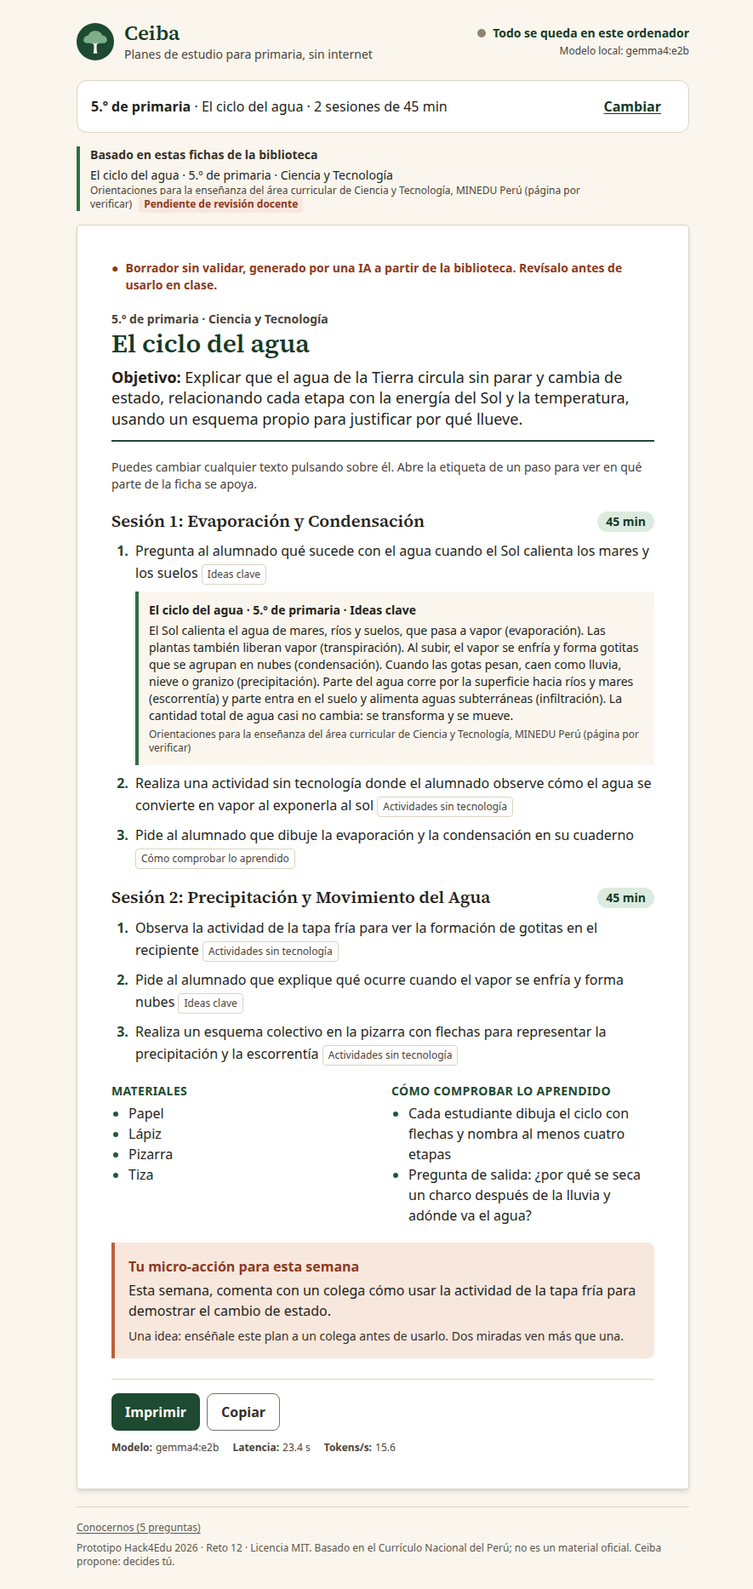
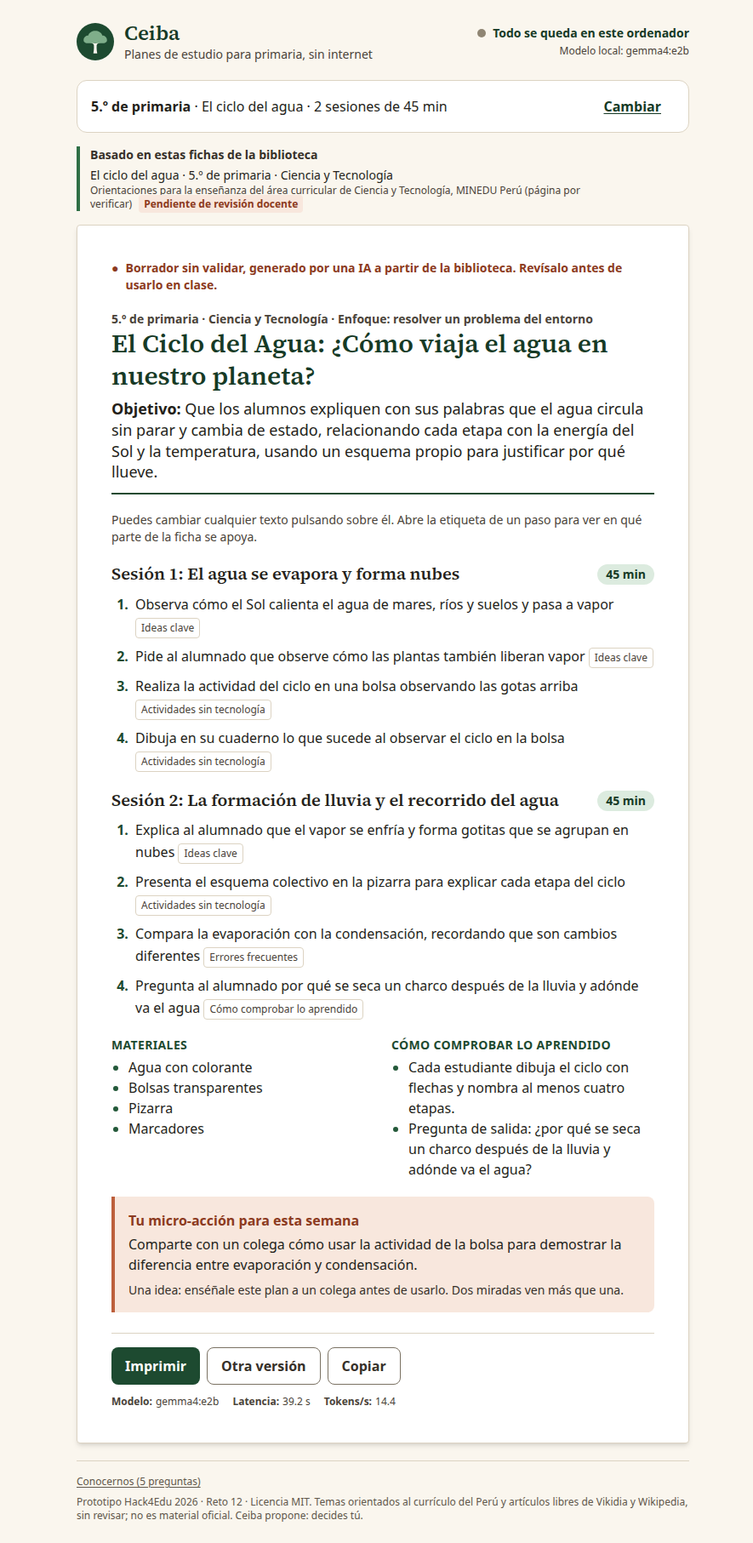
[builder] 20 planes grabados con temas variados, opciones sin duplicados, modo demo solo con temas grabados; docs y licencia CC BY-SA de la biblioteca (refs #9)

diff --git a/app/src/plan/Plan.tsx b/app/src/plan/Plan.tsx
@@ -79,6 +79,9 @@ export function Plan({ model }: { model: string }) {
   const planRef = useRef<HTMLDivElement>(null)
   const pedidoRef = useRef<HTMLTextAreaElement>(null)
 
+  // En modo demo solo hay respuesta grabada para algunas fichas: solo se ofrecen esas.
+  const disponibles = useMemo(() => (config.demoMode ? biblioteca.filter((f) => temasGrabados.has(f.id)) : biblioteca), [])
+
   useEffect(() => () => abortRef.current?.abort(), [])
   useEffect(() => {
     if (gen.status !== 'loading') return
@@ -140,7 +143,7 @@ export function Plan({ model }: { model: string }) {
       return
     }
     setFaltaGrado(false)
-    const b = buscar(biblioteca, g, t)
+    const b = buscar(disponibles, g, t)
     setBusqueda(b)
     if (b.fichas.length) void generar(b.fichas, g, ses, min)
   }
@@ -180,8 +183,6 @@ export function Plan({ model }: { model: string }) {
   const cargando = gen.status === 'loading'
   const fichasEnUso = busqueda?.fichas ?? []
   const plegado = gen.status !== 'idle' && fichasEnUso.length > 0 && !cambiando
-  // En modo demo solo hay respuesta grabada para algunas fichas: solo se ofrecen esas.
-  const disponibles = useMemo(() => (config.demoMode ? biblioteca.filter((f) => temasGrabados.has(f.id)) : biblioteca), [])
   const [tanda, setTanda] = useState(0)
   const totalTemas = useMemo(() => new Set(disponibles.map((f) => f.tema)).size, [disponibles])
   const chips = useMemo(
@@ -459,12 +460,12 @@ function SinMaterial({
   return (
     <div data-sin-material className="rounded-xl border border-stone-300 bg-white p-5">
       <p className="font-serif text-lg font-semibold text-stone-900">{es.plan.sinMaterial(grado)}</p>
-      <p className="mt-1 text-stone-800">{es.plan.sinMaterialAyuda}</p>
+      <p className="mt-1 text-stone-800">{config.demoMode ? es.plan.sinMaterialDemo : es.plan.sinMaterialAyuda}</p>
       {busqueda.otrosGrados.length > 0 && (
         <div className="mt-3" data-otros-grados>
           <p className="text-sm font-semibold text-stone-800">{es.plan.otrosGrados(grado)}</p>
           <div className="mt-2 flex flex-wrap gap-2">
-            {busqueda.otrosGrados.map((f) => (
+            {busqueda.otrosGrados.slice(0, 6).map((f) => (
               <button key={f.id} type="button" className={chip} onClick={() => onOtroGrado(f)}>
                 {es.plan.usarFichaDe(f.grado, f.tema)}
               </button>
@@ -476,7 +477,7 @@ function SinMaterial({
         <div className="mt-3" data-temas-grado>
           <p className="text-sm font-semibold text-stone-800">{es.plan.temasDisponibles(grado)}</p>
           <div className="mt-2 flex flex-wrap gap-2">
-            {busqueda.temasDelGrado.map((t) => (
+            {busqueda.temasDelGrado.slice(0, 10).map((t) => (
               <button key={t} type="button" className={chip} onClick={() => onTema(t)}>
                 {t}
               </button>

diff --git a/ai/library/search.ts b/ai/library/search.ts
@@ -252,7 +252,7 @@ export interface Busqueda {
 
 export function buscar(biblioteca: Ficha[], grado: number, tema: string): Busqueda {
   const consulta = tokens(tema)
-  const temasDelGrado = biblioteca.filter((f) => f.grado === grado).map((f) => f.tema)
+  const temasDelGrado = [...new Set(biblioteca.filter((f) => f.grado === grado).map((f) => f.tema))]
   if (!consulta.length) return { fichas: [], otrosGrados: [], temasDelGrado }
   const candidatas = biblioteca.filter((f) => cubre(f, consulta))
   const puntos = puntuar(candidatas, consulta)
@@ -266,7 +266,12 @@ export function buscar(biblioteca: Ficha[], grado: number, tema: string): Busque
   const fichas = curadas.length ? curadas.slice(0, 2) : delGrado.slice(0, 1).map((f) => recortarFicha(f, tema))
   return {
     fichas,
-    otrosGrados: candidatas.filter((f) => f.grado !== grado).sort((a, b) => a.grado - b.grado).map((f) => recortarFicha(f, tema)),
+    otrosGrados: candidatas
+      .filter((f) => f.grado !== grado)
+      // Una opción por grado y tema; la curada, si existe.
+      .sort((a, b) => a.grado - b.grado || Number(b.tipo === 'curada') - Number(a.tipo === 'curada'))
+      .filter((f, i, l) => l.findIndex((x) => x.grado === f.grado && (x.tema === f.tema || x.tipo !== f.tipo)) === i)
+      .map((f) => recortarFicha(f, tema)),
     temasDelGrado,
   }
 }

diff --git a/app/src/copy/es.ts b/app/src/copy/es.ts
@@ -188,6 +188,7 @@ export const es = {
     sinDispositivos: 'El alumnado no tiene dispositivos ni internet',
     faltaGrado: '¿Para qué grado es? Elígelo arriba y vuelve a pulsar «Preparar plan».',
     sinMaterial: (g: number) => `No tengo material sobre este tema para ${g}.º de primaria.`,
+    sinMaterialDemo: 'En el modo demo solo hay planes grabados para algunos temas. Con el modelo real hay muchos más.',
     sinMaterialAyuda: 'Prefiero decírtelo antes que inventarme un plan. No se ha generado nada.',
     otrosGrados: (g: number) => `Sí lo tengo en otro grado. Puedes usarlo como base para ${g}.º, sabiendo que no está pensado para ese grado:`,
     usarFichaDe: (g: number, tema: string) => `Usar la ficha de ${g}.º: ${tema}`,

diff --git a/README.md b/README.md
@@ -2,7 +2,7 @@
 
 **Hack4Edu 2026 · Reto 12 ★ «El entrenador invisible del docente».** Prototipo desarrollado del 3 al 5 de noviembre de 2026.
 
-Un docente de primaria escribe «plan de estudio para 5.º sobre el ciclo del agua» y recibe un borrador paso a paso, ajustado a ese grado y hecho a partir de una biblioteca curricular local. Cada paso muestra en qué parte de la ficha se apoya. No devuelve una lista de libros: devuelve un plan que se puede usar y cambiar. Funciona sin internet, en un portátil corriente, y lo que escribe el docente no sale de su ordenador.
+Un docente de primaria escribe «plan de estudio para 5.º sobre el ciclo del agua» y recibe un borrador paso a paso, ajustado a ese grado y hecho a partir de una biblioteca local con 170 temas de primaria. Cada paso muestra en qué parte de la ficha se apoya. No devuelve una lista de libros: devuelve un plan que se puede usar y cambiar. Funciona sin internet, en un portátil corriente, y lo que escribe el docente no sale de su ordenador.
 
 ## Por qué
 
@@ -39,7 +39,9 @@ Pedido del docente
  → 4. comprobar (sin IA): esquema, minutos y fuentes; un reintento → borrador editable
 ```
 
-- **Biblioteca:** ficheros Markdown en `library/fichas/`, sin base de datos. Con pocas fichas, filtrar por grado y buscar por tema basta, y evita cargar un segundo modelo en poca RAM. Añadir contenido es añadir un fichero: consulta `library/README.md`.
+- **Biblioteca:** sin base de datos. Un mapa de temas por grado (`library/temas.json`), artículos de Vikidia y Wikipedia descargados una sola vez (`library/articulos.json`, menos de 1 MB) y fichas escritas a mano (`library/fichas/`), que se usan primero si existen. Filtrar por grado y buscar por tema basta, y evita cargar un segundo modelo en poca RAM. Para ampliarla: `library/README.md`.
+- **Variedad:** cada plan sigue un enfoque (jugar, contar una historia, debatir…), elegido o al azar, y «Otra versión» propone uno distinto.
+- **Sin fuente, se dice:** si un artículo no trae actividades, el modelo puede proponerlas, y se marcan como «Idea de Ceiba, sin fuente».
 - **Si no hay material, lo dice** y no genera nada. Si el tema solo existe en otro grado, te deja elegir.
 - **Privacidad:** al modelo le llegan los campos y las fichas, nunca el texto libre. Así los nombres de alumnos no llegan al modelo.
 - **Código:** `ai/` (modelo, esquemas, biblioteca), `app/src/plan/` (pantalla principal), `fixtures/` (modo demo).
@@ -53,8 +55,8 @@ Gemma 4 E2B (`gemma4:e2b`) de Google DeepMind, licencia [Apache 2.0](https://www
 | | |
 |---|---|
 | **Real** | Búsqueda en la biblioteca, generación con el modelo local, validación, funcionamiento sin red. Mediciones: `docs/review/resultados-2026-11-05.md` |
-| **Grabado** | En `npm run demo`, el plan es una respuesta real del modelo guardada en `fixtures/`, y la interfaz lo indica |
-| **Sin revisar** | Las 8 fichas son un borrador de demostración basado en el Currículo Nacional del Perú. Sus competencias, documentos y páginas aún deben contrastarse con el MINEDU. No son material oficial y la interfaz las marca como pendientes |
+| **Grabado** | En `npm run demo`, el plan es una respuesta real del modelo guardada en `fixtures/`, solo para los temas grabados, y la interfaz lo indica |
+| **Sin revisar** | Todo el contenido. El mapa de temas y las 8 fichas son un borrador orientado al currículo del Perú, sin contrastar con el MINEDU. Los artículos vienen de enciclopedias abiertas, editables por cualquiera, y pueden tener errores. La interfaz lo marca como pendiente de revisión |
 | **Sin validar** | No hemos demostrado que Ceiba mejore la enseñanza ni el aprendizaje. Citar una ficha no garantiza que el paso sea fiel a ella: por eso el docente puede abrir la fuente y cada plan es un borrador. Los cortes de nivel del perfil tampoco están validados |
 
 ## Comprobar
@@ -66,4 +68,4 @@ npm run smoke:plan -- http://localhost:5173/    # con la app en marcha y Chrome 
 
 ## Licencias
 
-Código: [MIT](LICENSE). Fuente Source Serif 4, incluida en la app: [SIL OFL 1.1](https://openfontlicense.org). Documentación y fichas: [CC BY-NC-SA 3.0](https://creativecommons.org/licenses/by-nc-sa/3.0/deed.es_ES). Sin datos reales de alumnos ni de docentes.
+Código: [MIT](LICENSE). Fuente Source Serif 4, incluida en la app: [SIL OFL 1.1](https://openfontlicense.org). Documentación: [CC BY-NC-SA 3.0](https://creativecommons.org/licenses/by-nc-sa/3.0/deed.es_ES). Biblioteca: CC BY-SA, con el detalle en `library/README.md` y los créditos de cada artículo en `library/ATRIBUCIONES.md`. Sin datos reales de alumnos ni de docentes.

diff --git a/docs/pitch/pitch-v1.md b/docs/pitch/pitch-v1.md
@@ -15,7 +15,7 @@ Acompañar a un docente funciona, pero cuando estos programas crecen pierden bue
 
 ### 2. Solución (≈ 20 s)
 
-Esto es Ceiba. Vive en el ordenador del docente, con una biblioteca basada en el currículo de su país y un modelo de IA abierto. No le da una lista de libros: le prepara un plan que puede usar y cambiar.
+Esto es Ceiba. Vive en el ordenador del docente, con una biblioteca de temas de primaria y un modelo de IA abierto. No le da una lista de libros: le prepara un plan que puede usar y cambiar.
 
 ### 3. Demo (≈ 80 s)
 
@@ -31,15 +31,15 @@ Cada paso dice en qué se apoya. Lo abrimos y aquí está el texto de la ficha.
 
 Ella cambia un paso con un clic y lo imprime. Es un borrador: la última palabra es suya. [DECIDE EL DOCENTE.]
 
-Ahora, el mismo tema para tercero. El plan cambia, porque cambia lo que ese grado debe lograr.
+Ahora, el mismo tema para tercero. El plan cambia, porque cambia lo que ese grado debe lograr. Y si no le convence, pide otra versión con otro enfoque: jugar, contar una historia, debatir.
 
-¿Y si pide algo que la biblioteca no tiene, como la fotosíntesis? Ceiba lo dice y no se inventa nada. Le enseña lo que sí tiene.
+¿Y si pide algo que la biblioteca no tiene, como las criptomonedas? Ceiba lo dice y no se inventa nada. Le enseña lo que sí tiene.
 
 Termina con un paso pequeño para su semana, porque el objetivo no es solo este plan, sino acompañar a quien enseña.
 
 ### 4. Cómo funciona (≈ 20 s)
 
-Gemma 4, un modelo abierto, en un portátil de ocho gigas sin tarjeta gráfica. La biblioteca son ficheros de texto: un ministerio o una ONG puede ampliarla sin servidores. Y lo que escribe la docente no llega ni al modelo, así que los nombres de sus alumnos no salen de ahí. [REAL. Son 7,5 GB medidos; decir «ocho» es redondear la capacidad del equipo.]
+Gemma 4, un modelo abierto, en un portátil de ocho gigas sin tarjeta gráfica. La biblioteca son ficheros: ciento setenta temas con artículos abiertos de Vikidia y Wikipedia, descargados una vez. Un ministerio o una ONG podría añadir los suyos sin servidores. Y lo que escribe la docente no llega ni al modelo, así que los nombres de sus alumnos no salen de ahí. [REAL. Son 7,5 GB medidos; decir «ocho» es redondear la capacidad del equipo.]
 
 ### 5. Impacto (≈ 15 s)
 
@@ -47,16 +47,17 @@ Una red como ProFuturo podría llevarlo a los equipos que ya están en las escue
 
 ### 6. Límites honestos (≈ 15 s)
 
-Seamos claros. Son ocho fichas de demostración, aún pendientes de revisión con el currículo oficial, y no hemos medido su efecto en el aprendizaje. Lo probamos con [CONFIRMAR: número] docentes. [Si no hay pruebas, se quita la frase.]
+Seamos claros. El contenido aún no está revisado: viene de enciclopedias abiertas y de un mapa de temas que falta contrastar con el currículo oficial. Y no hemos medido su efecto en el aprendizaje. Lo probamos con [CONFIRMAR: número] docentes. [Si no hay pruebas, se quita la frase.]
 
 Ceiba propone. Decide el docente.
 
 ## Preguntas del jurado: respuestas breves
 
-- **¿Por qué no un RAG con vectores?** Con pocas fichas, el filtro por grado y la búsqueda por tema aciertan en las pruebas (`npm run library:check`), y un segundo modelo competiría por la poca RAM. Con muchas más fichas se reabriría la decisión.
+- **¿Por qué no un RAG con vectores?** Con unos cientos de temas, el filtro por grado y la búsqueda por tema aciertan en las pruebas (`npm run library:check`), y un segundo modelo competiría por la poca RAM. Con muchos más se reabriría la decisión.
+- **¿Es fiable el contenido?** Todavía no lo garantizamos. Es texto abierto, con su versión y su fuente guardadas, y la interfaz lo marca como sin revisar. El siguiente paso es revisarlo con docentes.
 - **¿Cómo evitáis las invenciones?** El modelo solo recibe las fichas, cada paso debe citar una, y sin ficha no se genera nada. Citar no garantiza fidelidad: por eso el docente puede abrir la fuente y el plan es un borrador. Resultados de la lectura de planes reales: `docs/review/resultados-2026-11-05.md`.
 - **¿Qué datos se guardan?** Ninguno en un servidor. El nivel del perfil se queda en la pestaña y se borra al cerrarla.
-- **¿Quién mantiene las fichas?** [SIN VALIDAR] La idea es que lo haga la organización que despliega Ceiba; no lo hemos probado.
+- **¿Quién mantiene la biblioteca?** [SIN VALIDAR] La idea es que lo haga la organización que despliega Ceiba; no lo hemos probado.
 
 ## Qué no decimos
 

diff --git a/docs/STATE.md b/docs/STATE.md
@@ -8,7 +8,7 @@
 - Plan vigente: `docs/PLAN.md` (aprobado por un humano el 2026-11-05). Manda sobre el alcance anterior de este fichero y de los issues.
 - Último update: 2026-11-05 por builder.
 - Máquina de demo: portátil de 7,5 GB de RAM, 8 núcleos, sin GPU. Ollama 0.40.14 **en Docker** en `127.0.0.1:11435` (`.env`: `LLM_BASE_URL=http://localhost:11435/v1`), con `gemma4:e2b`. El Ollama nativo 0.12.11 de esta máquina (puerto 11434) no puede ejecutar Gemma 4 y no se usa.
-- Qué funciona hoy: pantalla de plan de estudio con biblioteca local, modelo real (18–41 s por plan) y modo demo. Sin probar aún: modo avión real. Resultados: `docs/review/resultados-2026-11-05.md`.
+- Qué funciona hoy: pantalla de plan de estudio con biblioteca local, modelo real (18–47 s por plan) y modo demo. Sin probar aún: modo avión real. Resultados: `docs/review/resultados-2026-11-05.md`.
 - Falta, y lo hace una persona: contrastar las fichas con los documentos oficiales del MINEDU, confirmar con la sede el reto y la modalidad, probar con docentes, y grabar y enviar el vídeo y la presentación.
 
 ## Producto (alcance vigente)
@@ -18,14 +18,16 @@
 2. **Perfil rápido** (opcional, por enlace): 5 preguntas → punto de partida orientativo. Solo ajusta la micro-acción.
 Siempre: si no hay material lo dice y no genera nada; no se envía al modelo lo que escribe el docente; anima a consultar con un colega.
 
-**Fuera de alcance:** flujo de reflexión (#12), chat libre, selector de modelos, embeddings, base de datos vectorial, SQLite, ingesta de PDF, memoria entre sesiones, voz, LMS, login, PWA.
+**Fuera de alcance:** flujo de reflexión (#12), chat libre, selector de modelos, embeddings, base de datos vectorial, SQLite, ingesta de PDF, consultas en vivo a internet, memoria entre sesiones, voz, LMS, login, PWA.
 
 ## Decisiones tomadas
 - **Biblioteca + plan de estudio como producto central** (2026-11-05, humano). Revierte «RAG de currículos fuera de alcance». Reto 12 ★, currículo CNEB del Perú, demo en el portátil de 7,5 GB.
-- **La biblioteca son ficheros Markdown** en `library/fichas/`, sin base de datos: filtro estricto por grado y búsqueda BM25 sobre tema y alias. Sin modelo de embeddings, porque competiría por la poca RAM.
+- **La biblioteca no usa base de datos**: filtro estricto por grado y búsqueda BM25 sobre tema y alias. Sin modelo de embeddings, porque competiría por la poca RAM.
+- **Más contenido antes que contenido revisado** (2026-11-05, humano): 170 temas con artículos de Vikidia y Wikipedia descargados una vez, además de las 8 fichas curadas, que se usan primero. La revisión de contenido se deja para después de esta fase. Todo sigue marcado como sin revisar.
+- **Variedad de respuestas** (2026-11-05, humano): enfoque elegido o al azar, y «Otra versión».
 - **Lo que escribe el docente no llega al modelo**: solo campos y fichas.
 - Presupuesto API: 0 €. **Un solo modelo: Gemma 4 `gemma4:e2b`** (2026-11-04, Ariel; Apache-2.0).
-- Licencias: MIT para el código; CC BY-NC-SA 3.0 para documentación y fichas.
+- Licencias: MIT para el código; CC BY-NC-SA 3.0 para la documentación; CC BY-SA para `library/`, por los artículos.
 - Repo: `alcacere/hack4edu2026`, público. Formato final (#25): vídeo de 3 min + presentación de 5 min + enlace a GitHub.
 - Memoria compartida: GitHub Issues + este fichero.
 
@@ -45,5 +47,5 @@ Los comandos están en `README.md`. El histórico de mediciones de máquinas ant
 
 ## Preguntas abiertas para humanos
 - #17 y #21 — Tareas de los humanos (pruebas con docentes, grabar y enviar la entrega).
-- Contrastar cada ficha con el documento oficial del MINEDU y poner `revisado: true`. Hoy ninguna está revisada.
+- Después de esta fase: revisar temas, fichas y artículos con el documento oficial del MINEDU. Hoy nada está revisado.
 - Confirmar con la sede el reto (12), la modalidad (innovadora) y la hora límite.

diff --git a/docs/review/resultados-2026-11-05.md b/docs/review/resultados-2026-11-05.md
@@ -1,17 +1,17 @@
 # Resultados de la pasada del 2026-11-05
 
-Máquina: portátil de 7,5 GB de RAM, 8 núcleos, sin GPU. Ollama 0.40.14 en Docker, `gemma4:e2b`, contexto de 4.096 tokens. Biblioteca: 8 fichas, ninguna revisada. Comprobado por el agente que construyó la app, **no por un revisor independiente**.
+Máquina: portátil de 7,5 GB de RAM, 8 núcleos, sin GPU. Ollama 0.40.14 en Docker, `gemma4:e2b`, contexto de 4.096 tokens. Biblioteca: 8 fichas curadas y 170 temas con artículos de Vikidia y Wikipedia, nada revisado. Comprobado por el agente que construyó la app, **no por un revisor independiente**.
 
 ## Mediciones (modelo real)
 
 | Qué | Resultado |
 |---|---|
-| Plan de 2 sesiones en la interfaz, modelo cargado | 23,4–40,5 s |
-| Plan de 1 sesión en la interfaz, modelo cargado | 18,0–25,7 s |
-| Grabación por script, 24 planes de 1 o 2 sesiones | 19,2–34,0 s |
+| Plan de 2 sesiones en la interfaz, modelo cargado | 23,4–42,0 s |
+| Plan de 1 sesión en la interfaz, modelo cargado | 18,0–31,4 s |
+| Grabación por script, 44 planes de 1 o 2 sesiones | 19,1–46,7 s |
 | Primer plan tras reiniciar el contenedor | 41,1 s. Es un mínimo: el sistema aún tenía el modelo en caché de disco; tras encender el equipo puede tardar más |
 | Velocidad en la interfaz | 7,4–17,8 tok/s (medida de punta a punta, incluye la carga si la hay) |
-| Salida válida | 34 de 34 planes a la primera, con `json_schema` (3 de la prueba inicial, 24 de la grabación, 7 en la interfaz, según las métricas de cada uno) |
+| Salida válida | 47 de 47 planes por script a la primera, con `json_schema`. En la interfaz, ningún fallo y ningún reintento en las métricas leídas |
 | Memoria del contenedor | Pico de 5,1 GB. El sistema usó además 1,5 GB de swap, con Chrome y Vite abiertos |
 
 ## Comprobaciones
@@ -33,6 +33,10 @@ Máquina: portátil de 7,5 GB de RAM, 8 núcleos, sin GPU. Ollama 0.40.14 en Doc
 | Indicador de conexión | ✅ | Cambia al cortar la red del navegador (emulado) |
 | `typecheck`, `build`, `library:check` | ✅ | 17 casos de búsqueda |
 
+| Temas descargados | ✅ | Fotosíntesis, volcanes (pedido en inglés), incas y multiplicación con el modelo real; las actividades propias salen marcadas |
+| «Otra versión» | ✅ | Otro enfoque y otros pasos, probado en fotosíntesis y ciclo del agua |
+| Prioridad de lo curado | ✅ | El ciclo del agua de 5.º usa la ficha curada, no el artículo |
+
 ## Sin comprobar
 
 - **Modo avión real**, con el Wi-Fi apagado, ni con el modelo ni en demo. Hay que hacerlo antes de grabar.
@@ -43,7 +47,17 @@ Máquina: portátil de 7,5 GB de RAM, 8 núcleos, sin GPU. Ollama 0.40.14 en Doc
 - Pruebas con docentes: no se han hecho.
 - Contenido de las fichas contra el MINEDU: ninguna revisada; la `url` de varias apunta al repositorio general.
 
-## Calidad: primera lectura de los 8 planes grabados
+## Calidad de los planes con artículos
+
+Por decisión del equipo, en esta fase importa la cantidad y la variedad, y la calidad se revisa después. Lo que ya se ve en la primera lectura:
+
+- **Contenido sin revisar.** Los artículos pueden tener errores. El de Vikidia sobre cadenas alimentarias dice que las plantas están «al final de la cadena», lo que parece invertido.
+- **A veces demasiado difícil para el grado.** Un plan de fotosíntesis para 5.º pedía diferenciar reacciones «biofísicas y bioquímicas».
+- **El enfoque se nota poco** en algunos planes: uno con enfoque «jugar» propuso sobre todo una clasificación.
+- **Cobertura parcial:** suele quedarse en parte del tema.
+- **El mapa de temas por grado** es propio y no se ha contrastado con el currículo oficial.
+
+## Calidad: primera lectura de los 8 planes con fichas curadas
 
 Son usables como borrador, pero el modelo tiene límites visibles:
 

diff --git a/library/README.md b/library/README.md
@@ -1,8 +1,15 @@
 # Biblioteca de Ceiba
 
-Cada fichero de `fichas/` es una **ficha**: un resumen listo para preparar clase sobre un tema y un grado, no un libro ni un PDF. Ceiba busca en estas fichas y redacta el plan solo con su contenido.
+Dos tipos de contenido, ambos locales: la app no consulta internet.
 
-## Añadir una ficha
+- **Temas descargados:** `temas.json` dice qué temas tocan en cada grado y `articulos.json` guarda el texto de artículos de Vikidia y Wikipedia, con su revisión y licencia. Se generan con `npm run library:build`, una sola vez; lo ya descargado no se vuelve a pedir. Créditos: `ATRIBUCIONES.md`.
+- **Fichas curadas:** los ficheros de `fichas/`, escritos para enseñar, con actividades y errores frecuentes. Si hay una para el tema y el grado, se usa antes que el artículo.
+
+## Añadir un tema descargado
+
+Añade una entrada a `temas.json` (`area`, `tema`, `grados`, `articulo` y `alias`), ejecuta `npm run library:build` y comprueba con `npm run library:check`.
+
+## Añadir una ficha curada
 
 1. Copia una ficha parecida en `fichas/<área>/<grado>-<tema>.md`.
 2. Rellena la cabecera:
@@ -20,6 +27,8 @@ Cada ficha debe ocupar unos 1.500–2.000 caracteres: el modelo la recibe entera
 
 ## Estado del contenido
 
-Las fichas son un **borrador de demostración**, escrito durante el hackathon (noviembre de 2026) y basado en el Currículo Nacional de la Educación Básica del Perú. **Ninguna está revisada todavía**: las competencias, los documentos y las páginas citados deben contrastarse con las publicaciones oficiales del MINEDU. No son material oficial del MINEDU.
+**Nada está revisado todavía.** El mapa de temas por grado y las fichas curadas son un borrador de demostración escrito durante el hackathon (noviembre de 2026), orientado al Currículo Nacional del Perú pero sin contrastar con el documento oficial del MINEDU. Vikidia y Wikipedia son obras abiertas que cualquiera puede editar y pueden contener errores. Nada de esto es material oficial.
 
-Licencia del contenido de esta carpeta: [CC BY-NC-SA 3.0](https://creativecommons.org/licenses/by-nc-sa/3.0/deed.es_ES).
+## Licencia
+
+Todo el contenido de esta carpeta se distribuye bajo [CC BY-SA 4.0](https://creativecommons.org/licenses/by-sa/4.0/deed.es), salvo los artículos de Vikidia, que conservan [CC BY-SA 3.0](https://creativecommons.org/licenses/by-sa/3.0/deed.es) como su original. Los artículos están recortados y troceados respecto al original.

diff --git a/docs/review/escenarios.md b/docs/review/escenarios.md
@@ -13,6 +13,7 @@
 | L3 | Plan | Sin material y otro grado | B3, B4 |
 | L4 | Plan | Entradas raras y sin grado | C1, F2, F4 |
 | L5 | Plan | Fidelidad a las fichas (lectura humana) | B6, G5 |
+| L6 | Plan | Temas descargados y «Otra versión» | B7, B8 |
 | E1, E2 | Perfil (opcional) | Nivel bajo y alto | P1–P7, F2 |
 | E7 | Plan | **Guardarraíl**: datos de alumnos | G1, G2, G2b |
 | E9 | Plan | **Modelo caído** | F1 |
@@ -29,9 +30,9 @@ Pedir el ciclo del agua para 3.º y para 5.º, con 1 sesión cada uno.
 - **Esperado:** fichas distintas. El plan de 5.º trata condensación o precipitación con esos nombres; el de 3.º usa un lenguaje más sencillo. **Falla si** los dos planes son prácticamente iguales.
 
 ## L3 — Sin material y otro grado
-1. «Plan para 5.º sobre la fotosíntesis»: dice que no tiene material, 0 peticiones a `/llm`, ofrece los temas de 5.º.
+1. «Plan para 5.º sobre las criptomonedas»: dice que no tiene material, 0 peticiones a `/llm`, ofrece temas de 5.º.
 2. «Plan para 5.º sobre el ciclo de las rocas»: igual; no vale devolver el ciclo del agua.
-3. «Plan para 4.º sobre el ciclo del agua»: ofrece las fichas de 3.º y 5.º sin usarlas. Al elegir una, queda indicado junto a la ficha.
+3. «Plan para 1.º sobre el ciclo del agua»: ofrece otros grados sin usarlos. Al elegir uno, queda indicado junto a la ficha.
 
 ## L4 — Entradas raras
 1. Pedido vacío: botón deshabilitado.
@@ -39,6 +40,10 @@ Pedir el ciclo del agua para 3.º y para 5.º, con 1 sesión cada uno.
 3. «Plan sobre el ciclo del agua» sin grado: lo pide, 0 peticiones; al elegirlo, sigue.
 4. Texto de 2.000 caracteres: la interfaz no se rompe.
 5. Salida inválida (`npm run mock-llm`): exactamente 2 peticiones y error amable.
+
+## L6 — Temas descargados y variedad
+«Plan para 5.º sobre la fotosíntesis», y después «Otra versión».
+- **Esperado:** plan basado en el artículo, con su fuente y licencia a la vista; actividades propias marcadas como «Idea de Ceiba, sin fuente»; la segunda versión tiene otro enfoque y otros pasos.
 
 ## L5 — Fidelidad a las fichas
 Una persona lee 5 planes reales, 2 ejecuciones de cada uno, con la ficha al lado. Anota cada hecho que no esté en la ficha, cada cita que no respalde su paso y cada paso que no se pueda hacer en un aula sin dispositivos. Los fallos se publican en los resultados.

diff --git a/docs/review/criterios.md b/docs/review/criterios.md
@@ -72,9 +72,11 @@ Si el contenedor `ollama` no existe o no tiene `gemma4:e2b`, el punto 8 queda **
 | C7 | Con «sin dispositivos» marcado, el plan no pide dispositivos ni conexión al alumnado. | Leer el plan. | L1 |
 | B1 | Cada paso cita un fragmento de las fichas entregadas. Abrir la cita muestra ese texto y su fuente. | `validatePlan` rechaza otras etiquetas; pulsar una cita. | L1 |
 | B2 | El mismo tema en 3.º y 5.º usa fichas distintas y el plan cambia de forma visible. Solo REAL. | Comparar los dos planes. | L2 |
-| B3 | Sin ficha para el tema: no hay plan, hay 0 peticiones a `/llm` y se ofrecen los temas de ese grado. | `smoke:plan`: `llmCalls` = 0. | L3 |
+| B3 | Sin ficha ni artículo para el tema: no hay plan, hay 0 peticiones a `/llm` y se ofrecen los temas de ese grado. | `smoke:plan`: `llmCalls` = 0. | L3 |
 | B4 | Si el tema solo existe en otro grado, lo dice y no lo usa salvo que el docente lo elija; en ese caso queda indicado junto a la ficha. | `smoke:plan`; pulsar «Usar la ficha de…». | L3 |
-| B5 | Toda ficha no revisada lleva la marca «Pendiente de revisión docente». Ninguna pantalla dice «alineado» ni «certificado». | Inspección; `grep` en `app/`. | L1 |
+| B5 | Toda ficha o artículo no revisado lleva la marca «Pendiente de revisión docente». Ninguna pantalla dice «alineado» ni «certificado». | Inspección; `grep` en `app/`. | L1 |
+| B7 | Toda actividad sin fragmento de origen se marca «Idea de Ceiba, sin fuente». | Inspección. | L6 |
+| B8 | «Otra versión» cambia el enfoque y el contenido del plan. Solo REAL. | Comparar las dos versiones. | L6 |
 | B6 | Fidelidad: en planes reales, una persona no encuentra hechos ausentes de las fichas. Los fallos se anotan. Solo REAL. | Leer 5 planes, 2 ejecuciones de cada uno, con la ficha al lado. | L5 |
 
 ## 5. Guardarraíles (todos los flujos, DEMO y REAL)
